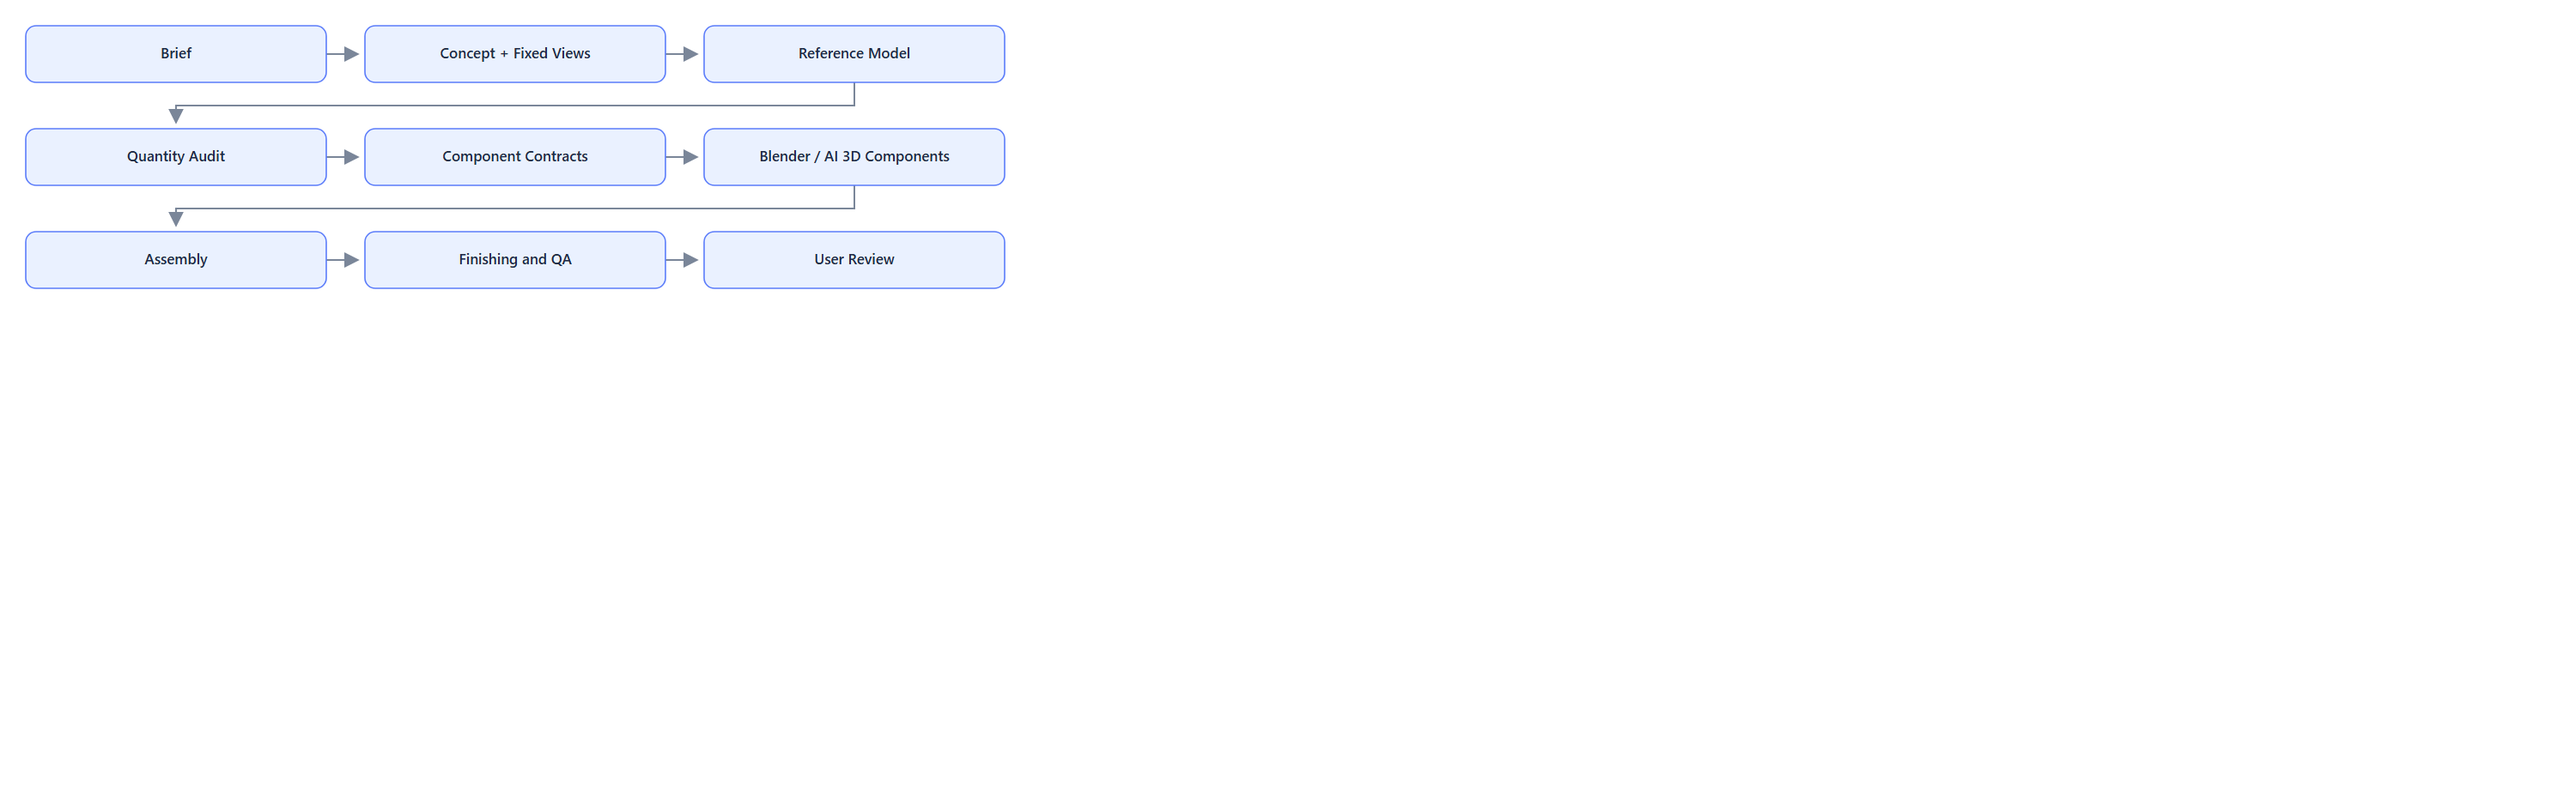
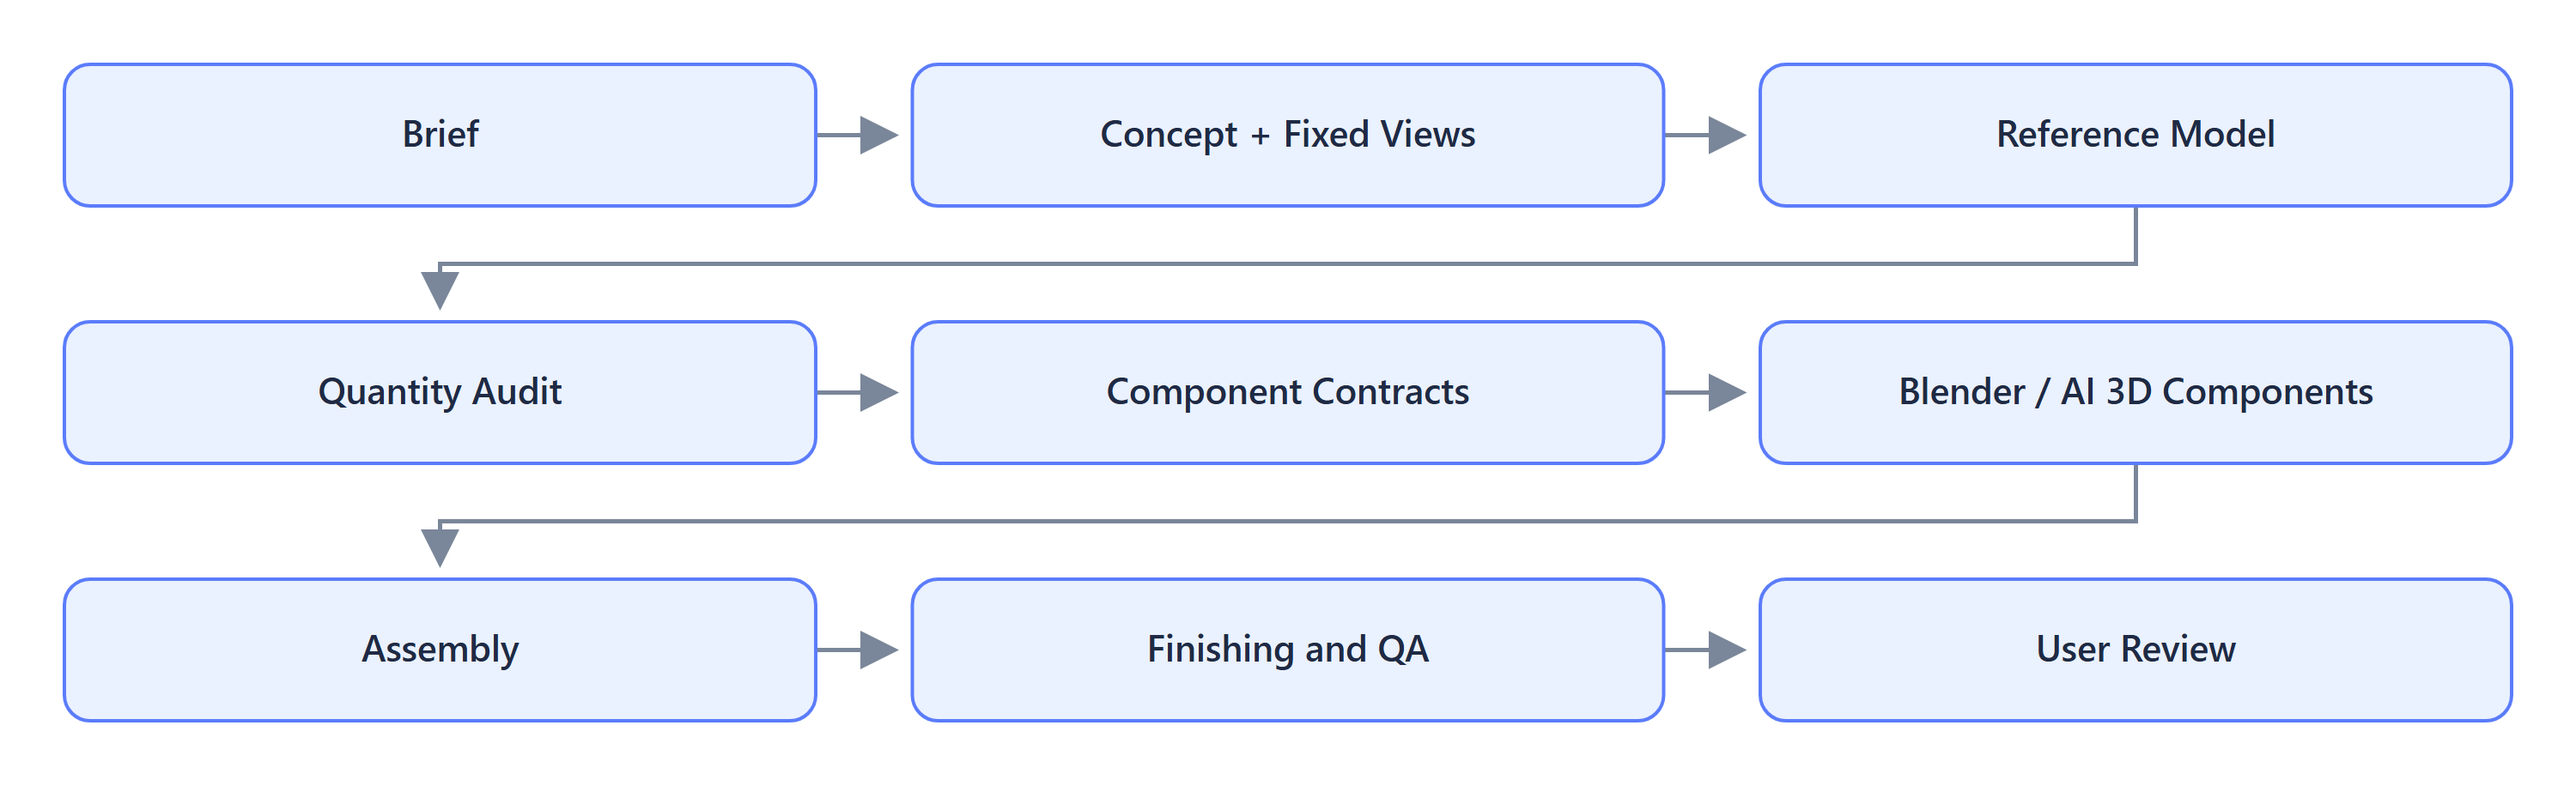
Center and enlarge the core workflow diagram

diff --git a/README.en.md b/README.en.md
@@ -37,7 +37,7 @@ Scene Kit turns these problems into executable data and audits:
 
 ## 2. Core Workflow
 
-![Scene Kit core workflow](assets/scene-kit-core-workflow.png)
+<p align="center"><img src="assets/scene-kit-core-workflow.png" width="100%" alt="Scene Kit core workflow"></p>
 
 ### 2.1 Concept and fixed reference
 

diff --git a/README.md b/README.md
@@ -37,7 +37,7 @@ Scene Kit 把这些问题变成可执行的数据和审计：
 
 ## 2. 核心工作流
 
-![Scene Kit 核心工作流](assets/scene-kit-core-workflow.png)
+<p align="center"><img src="assets/scene-kit-core-workflow.png" width="100%" alt="Scene Kit 核心工作流"></p>
 
 ### 2.1 概念与固定参考
 
